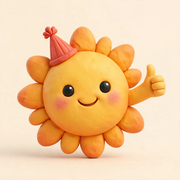
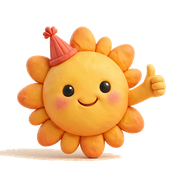
DayJoy v4.3: transparent mascots, redesigned Export Studio, color-psychology scheme site+PDF

diff --git a/dist/index.html b/dist/index.html
@@ -209,9 +209,27 @@ textarea.jbox{width:100%;border:3px solid var(--ink);border-radius:20px;padding:
 .stat .v{font-size:22px;font-weight:800}.stat .l{font-size:11px;font-weight:700;color:var(--ink-soft)}
 .log-row{display:flex;justify-content:space-between;background:#fff;border-radius:16px;padding:10px 16px;margin-bottom:8px;font-weight:700;font-size:14px;box-shadow:0 3px 0 rgba(30,42,90,.06)}
 /* export */
-.xopt{display:flex;align-items:center;gap:12px;background:var(--bg);border-radius:16px;padding:12px 14px;margin-bottom:8px;font-weight:800;cursor:pointer}
-.xopt input{width:22px;height:22px;accent-color:var(--coral)}
-.xopt .xe{font-size:22px}
+.xhead{display:flex;align-items:center;gap:14px;margin-bottom:4px}
+.xhead h3{margin:0}
+.xhead p{color:var(--ink-soft);font-weight:700;font-size:13px;margin-top:2px}
+.xmascot{width:66px;height:66px;object-fit:contain;animation:bob 3.2s ease-in-out infinite}
+.xlabel{font-weight:800;font-size:12px;color:var(--ink-soft);margin:14px 0 8px;letter-spacing:1px;text-transform:uppercase}
+.xcard{display:flex;align-items:center;gap:12px;background:#fff;border:3px solid var(--xc);border-radius:18px;padding:10px 14px;margin-bottom:8px;cursor:pointer;box-shadow:var(--shadow);transition:.2s}
+.xcard input{display:none}
+.xcard .xe{font-size:24px}
+.xcard .xt{flex:1;font-weight:800;font-size:15px;line-height:1.2}
+.xcard .xt small{display:block;font-weight:700;color:var(--ink-soft);font-size:11.5px}
+.xcard .xcheck{width:30px;height:30px;border-radius:50%;background:var(--xc);color:#fff;font-weight:800;display:flex;align-items:center;justify-content:center;flex-shrink:0;transition:.2s}
+.xcard:has(input:not(:checked)){opacity:.45;filter:grayscale(.7)}
+.xcard:has(input:not(:checked)) .xcheck{background:#d5d9e8;color:#fff}
+.xformats{display:flex;gap:10px;margin-bottom:16px}
+.xfmt{flex:1;border:3px solid var(--ink);background:#fff;border-radius:18px;padding:12px 8px;cursor:pointer;font-family:inherit;display:flex;flex-direction:column;align-items:center;gap:2px;box-shadow:var(--shadow);color:var(--ink)}
+.xfmt .xe{font-size:28px}
+.xfmt b{font-size:14px}
+.xfmt small{font-size:11px;color:var(--ink-soft);font-weight:700;text-align:center;line-height:1.3}
+.xfmt.on{border-color:var(--coral);background:var(--coral-soft);transform:scale(1.03)}
+/* color-psychology section accents */
+.section-head .ico{background:var(--sc,#eee);border-radius:14px;padding:4px 9px}
 /* modal */
 .modal{position:fixed;inset:0;background:rgba(30,42,90,.45);display:none;align-items:flex-end;justify-content:center;z-index:50}
 .modal.open{display:flex}
@@ -259,7 +277,7 @@ textarea.jbox{width:100%;border:3px solid var(--ink);border-radius:20px;padding:
     <div class="auth-sky">
       <span class="float" style="left:12%;top:18%">☁</span><span class="float" style="right:10%;top:12%;animation-delay:1s">✨</span>
       <span class="float" style="left:8%;top:52%;animation-delay:2s">⭐</span><span class="float" style="right:14%;top:58%;animation-delay:.5s">🎈</span>
-      <img class="mascot-hero" src="mascot-sun.webp" alt="DayJoy mascot">
+      <img class="mascot-hero" src="mascot-sun.png" alt="DayJoy mascot">
       <div class="auth-title">Hello, I'm <span class="brand-name">DayJoy</span>! ☀</div>
       <div class="auth-sub">Your whole day, one happy place</div>
     </div>
@@ -347,7 +365,7 @@ textarea.jbox{width:100%;border:3px solid var(--ink);border-radius:20px;padding:
 
     <div class="view" id="v-time">
       <div class="section"><div class="section-head"><span class="ico">⏱</span><h2>Focus Time</h2></div>
-        <div class="focus"><img class="clockmascot" src="mascot-clock.webp" alt="Focus buddy">
+        <div class="focus"><img class="clockmascot" src="mascot-clock.png" alt="Focus buddy">
           <div class="mode-seg"><button id="mode-focus" class="on">🍅 Focus</button><button id="mode-break">☕ Break</button></div>
           <div class="ringwrap" style="width:190px;height:190px"><svg width="190" height="190"><circle class="ring-bg" cx="95" cy="95" r="80"/><circle class="ring-fg" id="t-ring" cx="95" cy="95" r="80"/></svg>
           <div class="ringtxt"><div class="t" id="t-time" style="font-size:44px">25:00</div><div class="s" id="t-state">Paused</div></div></div>
@@ -391,19 +409,23 @@ textarea.jbox{width:100%;border:3px solid var(--ink);border-radius:20px;padding:
 </div></div>
 
 <div class="modal" id="export-modal"><div class="sheet">
-  <h3>📤 Export Studio</h3>
-  <p style="font-weight:600;color:var(--ink-soft);font-size:14px;margin-bottom:10px">Pick what to export, pick a style:</p>
+  <div class="xhead"><img class="xmascot" src="mascot-sun.png" alt=""><div><h3>Export Studio</h3><p>Take your happy day with you ✨</p></div></div>
+  <div class="xlabel">What to include</div>
   <div id="xlist">
-    <label class="xopt"><input type="checkbox" data-x="tasks" checked><span class="xe">✅</span> Tasks</label>
-    <label class="xopt"><input type="checkbox" data-x="habits" checked><span class="xe">🔥</span> Habits</label>
-    <label class="xopt"><input type="checkbox" data-x="sched" checked><span class="xe">📅</span> Schedule</label>
-    <label class="xopt"><input type="checkbox" data-x="notes" checked><span class="xe">📝</span> Notes</label>
-    <label class="xopt"><input type="checkbox" data-x="journal" checked><span class="xe">💛</span> Journal</label>
-    <label class="xopt"><input type="checkbox" data-x="sessions" checked><span class="xe">⏱</span> Focus sessions</label>
+    <label class="xcard" style="--xc:#FF7B7B"><input type="checkbox" data-x="tasks" checked><span class="xe">✅</span><span class="xt">Tasks<small>Energy · action · getting things done</small></span><span class="xcheck">✓</span></label>
+    <label class="xcard" style="--xc:#FFC93C"><input type="checkbox" data-x="habits" checked><span class="xe">🔥</span><span class="xt">Habits<small>Reward · optimism · streaks</small></span><span class="xcheck">✓</span></label>
+    <label class="xcard" style="--xc:#4FA8FF"><input type="checkbox" data-x="sched" checked><span class="xe">📅</span><span class="xt">Schedule<small>Trust · clarity · your time</small></span><span class="xcheck">✓</span></label>
+    <label class="xcard" style="--xc:#A78BFA"><input type="checkbox" data-x="notes" checked><span class="xe">📝</span><span class="xt">Notes<small>Creativity · ideas · imagination</small></span><span class="xcheck">✓</span></label>
+    <label class="xcard" style="--xc:#FF9F6B"><input type="checkbox" data-x="journal" checked><span class="xe">💛</span><span class="xt">Journal<small>Warmth · comfort · reflection</small></span><span class="xcheck">✓</span></label>
+    <label class="xcard" style="--xc:#35D99A"><input type="checkbox" data-x="sessions" checked><span class="xe">⏱</span><span class="xt">Focus sessions<small>Calm · concentration · growth</small></span><span class="xcheck">✓</span></label>
   </div>
-  <div class="seg" style="margin-top:12px"><button id="xf-pdf" class="on">🎨 Designed PDF</button><button id="xf-json">📦 Raw JSON</button></div>
-  <div class="row"><button class="bigbtn" id="x-go">Generate ⬇</button></div>
-  <div class="row" style="margin-top:10px"><button class="ghostbtn" id="x-close" style="flex:1">Close</button></div>
+  <div class="xlabel">Style</div>
+  <div class="xformats">
+    <button id="xf-pdf" class="xfmt on"><span class="xe">🎨</span><b>Designed PDF</b><small>Site-style colorful cards</small></button>
+    <button id="xf-json" class="xfmt"><span class="xe">📦</span><b>Raw JSON</b><small>For backups & porting</small></button>
+  </div>
+  <button class="bigbtn" id="x-go">Generate ⬇</button>
+  <button class="ghostbtn" id="x-close" style="width:100%;margin-top:10px">Close</button>
 </div></div>
 
 <script>
@@ -570,7 +592,7 @@ async function loadAll(){
   show('scr-app');
   renderTasks();renderHabits();renderSched();renderNotes();renderJournal();renderStats();renderStreak();drawT();
 }
-const emptyHTML=msg=>`<div class="empty"><img class="emascot" src="mascot-sun.webp" alt=""><br>${msg}</div>`;
+const emptyHTML=msg=>`<div class="empty"><img class="emascot" src="mascot-sun.png" alt=""><br>${msg}</div>`;
 
 /* confetti burst on check */
 function burst(btn){
@@ -857,7 +879,7 @@ $('x-go').onclick=async()=>{
 function dl(name,blob){const a=document.createElement('a');a.href=URL.createObjectURL(blob);a.download=name;a.click();setTimeout(()=>URL.revokeObjectURL(a.href),4000);}
 async function mascotDataURL(){
   try{
-    const r=await fetch('mascot-sun.webp');const b=await r.blob();
+    const r=await fetch('mascot-sun.png');const b=await r.blob();
     const bmp=await createImageBitmap(b);
     const cv=document.createElement('canvas');cv.width=256;cv.height=256;
     cv.getContext('2d').drawImage(bmp,0,0,256,256);
@@ -895,6 +917,20 @@ async function exportPDF(sel){
   F('normal',11);doc.setTextColor(...C.soft);doc.text('Your whole day, one happy place',M,36);
   F('normal',10);doc.text(new Date().toLocaleDateString('en-US',{weekday:'long',month:'long',day:'numeric',year:'numeric'}),M,43);
   y=54;
+  /* stat boxes — value in each tool's emotional color */
+  const doneN=D.tasks.filter(t=>t.done).length;
+  const mins=D.sessions.reduce((a,s)=>a+(s.minutes||0),0);
+  const GOLD=[198,148,0], MINTD=[29,158,108];
+  const stats=[['Day streak',String(calcStreak()),GOLD],['Tasks done',doneN+' / '+D.tasks.length,C.coral],['Focus minutes',String(mins),MINTD],['Habits',String(D.habits.length),GOLD]];
+  const bw=(W-2*M-9)/4;
+  stats.forEach((s,i)=>{const x=M+i*(bw+3);
+    doc.setFillColor(...C.white);doc.setDrawColor(...C.hair);doc.setLineWidth(.4);
+    doc.roundedRect(x,y,bw,24,3,3,'FD');
+    F('bold',16);doc.setTextColor(...s[2]);
+    doc.text(s[1],x+bw/2,y+11,{align:'center'});
+    F('normal',9);doc.setTextColor(...C.soft);
+    doc.text(s[0],x+bw/2,y+18,{align:'center'});});
+  y+=32;
   /* section head, like the site */
   function shead(color,title){
     need(14);
@@ -1017,7 +1053,17 @@ async function exportPDF(sel){
   doc.save('dayjoy-export-'+todayISO()+'.pdf');
 }
 /* ---------- init ---------- */
-renderAuthMode();newPrompt();boot();
+renderAuthMode();newPrompt();
+/* color psychology: every tool gets its emotional color, on site and in PDF.
+   Tasks=coral (energy/action) · Habits=gold (reward/optimism) · Schedule=sky (trust/clarity)
+   Notes=lilac (creativity) · Journal=peach (warmth/comfort) · Focus=mint (calm/growth) */
+const SECCOL={tasks:'#FFE1DF',habits:'#FFF3D1',schedule:'#DDEEFF',notes:'#E9E1FF',journal:'#FFE8D9',focus:'#D8F7E8',timer:'#D8F7E8',week:'#D8F7E8',sessions:'#D8F7E8'};
+document.querySelectorAll('.section-head').forEach(sh=>{
+  const t=(sh.querySelector('h2')?.textContent||'').toLowerCase();
+  const key=Object.keys(SECCOL).find(k=>t.includes(k));
+  if(key){const ico=sh.querySelector('.ico');if(ico)ico.style.setProperty('--sc',SECCOL[key]);}
+});
+boot();
 </script>
 </body>
 </html>

diff --git a/index.html b/index.html
@@ -209,9 +209,27 @@ textarea.jbox{width:100%;border:3px solid var(--ink);border-radius:20px;padding:
 .stat .v{font-size:22px;font-weight:800}.stat .l{font-size:11px;font-weight:700;color:var(--ink-soft)}
 .log-row{display:flex;justify-content:space-between;background:#fff;border-radius:16px;padding:10px 16px;margin-bottom:8px;font-weight:700;font-size:14px;box-shadow:0 3px 0 rgba(30,42,90,.06)}
 /* export */
-.xopt{display:flex;align-items:center;gap:12px;background:var(--bg);border-radius:16px;padding:12px 14px;margin-bottom:8px;font-weight:800;cursor:pointer}
-.xopt input{width:22px;height:22px;accent-color:var(--coral)}
-.xopt .xe{font-size:22px}
+.xhead{display:flex;align-items:center;gap:14px;margin-bottom:4px}
+.xhead h3{margin:0}
+.xhead p{color:var(--ink-soft);font-weight:700;font-size:13px;margin-top:2px}
+.xmascot{width:66px;height:66px;object-fit:contain;animation:bob 3.2s ease-in-out infinite}
+.xlabel{font-weight:800;font-size:12px;color:var(--ink-soft);margin:14px 0 8px;letter-spacing:1px;text-transform:uppercase}
+.xcard{display:flex;align-items:center;gap:12px;background:#fff;border:3px solid var(--xc);border-radius:18px;padding:10px 14px;margin-bottom:8px;cursor:pointer;box-shadow:var(--shadow);transition:.2s}
+.xcard input{display:none}
+.xcard .xe{font-size:24px}
+.xcard .xt{flex:1;font-weight:800;font-size:15px;line-height:1.2}
+.xcard .xt small{display:block;font-weight:700;color:var(--ink-soft);font-size:11.5px}
+.xcard .xcheck{width:30px;height:30px;border-radius:50%;background:var(--xc);color:#fff;font-weight:800;display:flex;align-items:center;justify-content:center;flex-shrink:0;transition:.2s}
+.xcard:has(input:not(:checked)){opacity:.45;filter:grayscale(.7)}
+.xcard:has(input:not(:checked)) .xcheck{background:#d5d9e8;color:#fff}
+.xformats{display:flex;gap:10px;margin-bottom:16px}
+.xfmt{flex:1;border:3px solid var(--ink);background:#fff;border-radius:18px;padding:12px 8px;cursor:pointer;font-family:inherit;display:flex;flex-direction:column;align-items:center;gap:2px;box-shadow:var(--shadow);color:var(--ink)}
+.xfmt .xe{font-size:28px}
+.xfmt b{font-size:14px}
+.xfmt small{font-size:11px;color:var(--ink-soft);font-weight:700;text-align:center;line-height:1.3}
+.xfmt.on{border-color:var(--coral);background:var(--coral-soft);transform:scale(1.03)}
+/* color-psychology section accents */
+.section-head .ico{background:var(--sc,#eee);border-radius:14px;padding:4px 9px}
 /* modal */
 .modal{position:fixed;inset:0;background:rgba(30,42,90,.45);display:none;align-items:flex-end;justify-content:center;z-index:50}
 .modal.open{display:flex}
@@ -259,7 +277,7 @@ textarea.jbox{width:100%;border:3px solid var(--ink);border-radius:20px;padding:
     <div class="auth-sky">
       <span class="float" style="left:12%;top:18%">☁</span><span class="float" style="right:10%;top:12%;animation-delay:1s">✨</span>
       <span class="float" style="left:8%;top:52%;animation-delay:2s">⭐</span><span class="float" style="right:14%;top:58%;animation-delay:.5s">🎈</span>
-      <img class="mascot-hero" src="mascot-sun.webp" alt="DayJoy mascot">
+      <img class="mascot-hero" src="mascot-sun.png" alt="DayJoy mascot">
       <div class="auth-title">Hello, I'm <span class="brand-name">DayJoy</span>! ☀</div>
       <div class="auth-sub">Your whole day, one happy place</div>
     </div>
@@ -347,7 +365,7 @@ textarea.jbox{width:100%;border:3px solid var(--ink);border-radius:20px;padding:
 
     <div class="view" id="v-time">
       <div class="section"><div class="section-head"><span class="ico">⏱</span><h2>Focus Time</h2></div>
-        <div class="focus"><img class="clockmascot" src="mascot-clock.webp" alt="Focus buddy">
+        <div class="focus"><img class="clockmascot" src="mascot-clock.png" alt="Focus buddy">
           <div class="mode-seg"><button id="mode-focus" class="on">🍅 Focus</button><button id="mode-break">☕ Break</button></div>
           <div class="ringwrap" style="width:190px;height:190px"><svg width="190" height="190"><circle class="ring-bg" cx="95" cy="95" r="80"/><circle class="ring-fg" id="t-ring" cx="95" cy="95" r="80"/></svg>
           <div class="ringtxt"><div class="t" id="t-time" style="font-size:44px">25:00</div><div class="s" id="t-state">Paused</div></div></div>
@@ -391,19 +409,23 @@ textarea.jbox{width:100%;border:3px solid var(--ink);border-radius:20px;padding:
 </div></div>
 
 <div class="modal" id="export-modal"><div class="sheet">
-  <h3>📤 Export Studio</h3>
-  <p style="font-weight:600;color:var(--ink-soft);font-size:14px;margin-bottom:10px">Pick what to export, pick a style:</p>
+  <div class="xhead"><img class="xmascot" src="mascot-sun.png" alt=""><div><h3>Export Studio</h3><p>Take your happy day with you ✨</p></div></div>
+  <div class="xlabel">What to include</div>
   <div id="xlist">
-    <label class="xopt"><input type="checkbox" data-x="tasks" checked><span class="xe">✅</span> Tasks</label>
-    <label class="xopt"><input type="checkbox" data-x="habits" checked><span class="xe">🔥</span> Habits</label>
-    <label class="xopt"><input type="checkbox" data-x="sched" checked><span class="xe">📅</span> Schedule</label>
-    <label class="xopt"><input type="checkbox" data-x="notes" checked><span class="xe">📝</span> Notes</label>
-    <label class="xopt"><input type="checkbox" data-x="journal" checked><span class="xe">💛</span> Journal</label>
-    <label class="xopt"><input type="checkbox" data-x="sessions" checked><span class="xe">⏱</span> Focus sessions</label>
+    <label class="xcard" style="--xc:#FF7B7B"><input type="checkbox" data-x="tasks" checked><span class="xe">✅</span><span class="xt">Tasks<small>Energy · action · getting things done</small></span><span class="xcheck">✓</span></label>
+    <label class="xcard" style="--xc:#FFC93C"><input type="checkbox" data-x="habits" checked><span class="xe">🔥</span><span class="xt">Habits<small>Reward · optimism · streaks</small></span><span class="xcheck">✓</span></label>
+    <label class="xcard" style="--xc:#4FA8FF"><input type="checkbox" data-x="sched" checked><span class="xe">📅</span><span class="xt">Schedule<small>Trust · clarity · your time</small></span><span class="xcheck">✓</span></label>
+    <label class="xcard" style="--xc:#A78BFA"><input type="checkbox" data-x="notes" checked><span class="xe">📝</span><span class="xt">Notes<small>Creativity · ideas · imagination</small></span><span class="xcheck">✓</span></label>
+    <label class="xcard" style="--xc:#FF9F6B"><input type="checkbox" data-x="journal" checked><span class="xe">💛</span><span class="xt">Journal<small>Warmth · comfort · reflection</small></span><span class="xcheck">✓</span></label>
+    <label class="xcard" style="--xc:#35D99A"><input type="checkbox" data-x="sessions" checked><span class="xe">⏱</span><span class="xt">Focus sessions<small>Calm · concentration · growth</small></span><span class="xcheck">✓</span></label>
   </div>
-  <div class="seg" style="margin-top:12px"><button id="xf-pdf" class="on">🎨 Designed PDF</button><button id="xf-json">📦 Raw JSON</button></div>
-  <div class="row"><button class="bigbtn" id="x-go">Generate ⬇</button></div>
-  <div class="row" style="margin-top:10px"><button class="ghostbtn" id="x-close" style="flex:1">Close</button></div>
+  <div class="xlabel">Style</div>
+  <div class="xformats">
+    <button id="xf-pdf" class="xfmt on"><span class="xe">🎨</span><b>Designed PDF</b><small>Site-style colorful cards</small></button>
+    <button id="xf-json" class="xfmt"><span class="xe">📦</span><b>Raw JSON</b><small>For backups & porting</small></button>
+  </div>
+  <button class="bigbtn" id="x-go">Generate ⬇</button>
+  <button class="ghostbtn" id="x-close" style="width:100%;margin-top:10px">Close</button>
 </div></div>
 
 <script>
@@ -569,7 +591,7 @@ async function loadAll(){
   show('scr-app');
   renderTasks();renderHabits();renderSched();renderNotes();renderJournal();renderStats();renderStreak();drawT();
 }
-const emptyHTML=msg=>`<div class="empty"><img class="emascot" src="mascot-sun.webp" alt=""><br>${msg}</div>`;
+const emptyHTML=msg=>`<div class="empty"><img class="emascot" src="mascot-sun.png" alt=""><br>${msg}</div>`;
 
 /* confetti burst on check */
 function burst(btn){
@@ -856,7 +878,7 @@ $('x-go').onclick=async()=>{
 function dl(name,blob){const a=document.createElement('a');a.href=URL.createObjectURL(blob);a.download=name;a.click();setTimeout(()=>URL.revokeObjectURL(a.href),4000);}
 async function mascotDataURL(){
   try{
-    const r=await fetch('mascot-sun.webp');const b=await r.blob();
+    const r=await fetch('mascot-sun.png');const b=await r.blob();
     const bmp=await createImageBitmap(b);
     const cv=document.createElement('canvas');cv.width=256;cv.height=256;
     cv.getContext('2d').drawImage(bmp,0,0,256,256);
@@ -894,6 +916,20 @@ async function exportPDF(sel){
   F('normal',11);doc.setTextColor(...C.soft);doc.text('Your whole day, one happy place',M,36);
   F('normal',10);doc.text(new Date().toLocaleDateString('en-US',{weekday:'long',month:'long',day:'numeric',year:'numeric'}),M,43);
   y=54;
+  /* stat boxes — value in each tool's emotional color */
+  const doneN=D.tasks.filter(t=>t.done).length;
+  const mins=D.sessions.reduce((a,s)=>a+(s.minutes||0),0);
+  const GOLD=[198,148,0], MINTD=[29,158,108];
+  const stats=[['Day streak',String(calcStreak()),GOLD],['Tasks done',doneN+' / '+D.tasks.length,C.coral],['Focus minutes',String(mins),MINTD],['Habits',String(D.habits.length),GOLD]];
+  const bw=(W-2*M-9)/4;
+  stats.forEach((s,i)=>{const x=M+i*(bw+3);
+    doc.setFillColor(...C.white);doc.setDrawColor(...C.hair);doc.setLineWidth(.4);
+    doc.roundedRect(x,y,bw,24,3,3,'FD');
+    F('bold',16);doc.setTextColor(...s[2]);
+    doc.text(s[1],x+bw/2,y+11,{align:'center'});
+    F('normal',9);doc.setTextColor(...C.soft);
+    doc.text(s[0],x+bw/2,y+18,{align:'center'});});
+  y+=32;
   /* section head, like the site */
   function shead(color,title){
     need(14);
@@ -1016,7 +1052,17 @@ async function exportPDF(sel){
   doc.save('dayjoy-export-'+todayISO()+'.pdf');
 }
 /* ---------- init ---------- */
-renderAuthMode();newPrompt();boot();
+renderAuthMode();newPrompt();
+/* color psychology: every tool gets its emotional color, on site and in PDF.
+   Tasks=coral (energy/action) · Habits=gold (reward/optimism) · Schedule=sky (trust/clarity)
+   Notes=lilac (creativity) · Journal=peach (warmth/comfort) · Focus=mint (calm/growth) */
+const SECCOL={tasks:'#FFE1DF',habits:'#FFF3D1',schedule:'#DDEEFF',notes:'#E9E1FF',journal:'#FFE8D9',focus:'#D8F7E8',timer:'#D8F7E8',week:'#D8F7E8',sessions:'#D8F7E8'};
+document.querySelectorAll('.section-head').forEach(sh=>{
+  const t=(sh.querySelector('h2')?.textContent||'').toLowerCase();
+  const key=Object.keys(SECCOL).find(k=>t.includes(k));
+  if(key){const ico=sh.querySelector('.ico');if(ico)ico.style.setProperty('--sc',SECCOL[key]);}
+});
+boot();
 </script>
 </body>
 </html>

diff --git a/build.js b/build.js
@@ -11,7 +11,7 @@ const balooB = fs.readFileSync('fonts/baloo2-bold.ttf').toString('base64');
 html = html.split('/*__BALOO_FONTS__*/').join(`const BALOO_R="${balooR}";\nconst BALOO_B="${balooB}";`);
 fs.mkdirSync('dist', { recursive: true });
 fs.writeFileSync(path.join('dist', 'index.html'), html);
-for (const img of ['mascot-sun.webp', 'mascot-clock.webp', 'favicon.png', 'favicon.ico', 'apple-touch-icon.png']) {
+for (const img of ['mascot-sun.png', 'mascot-clock.png', 'favicon.png', 'favicon.ico', 'apple-touch-icon.png']) {
   if (fs.existsSync(img)) fs.copyFileSync(img, path.join('dist', img));
 }
 console.log('Built dist/ with',
